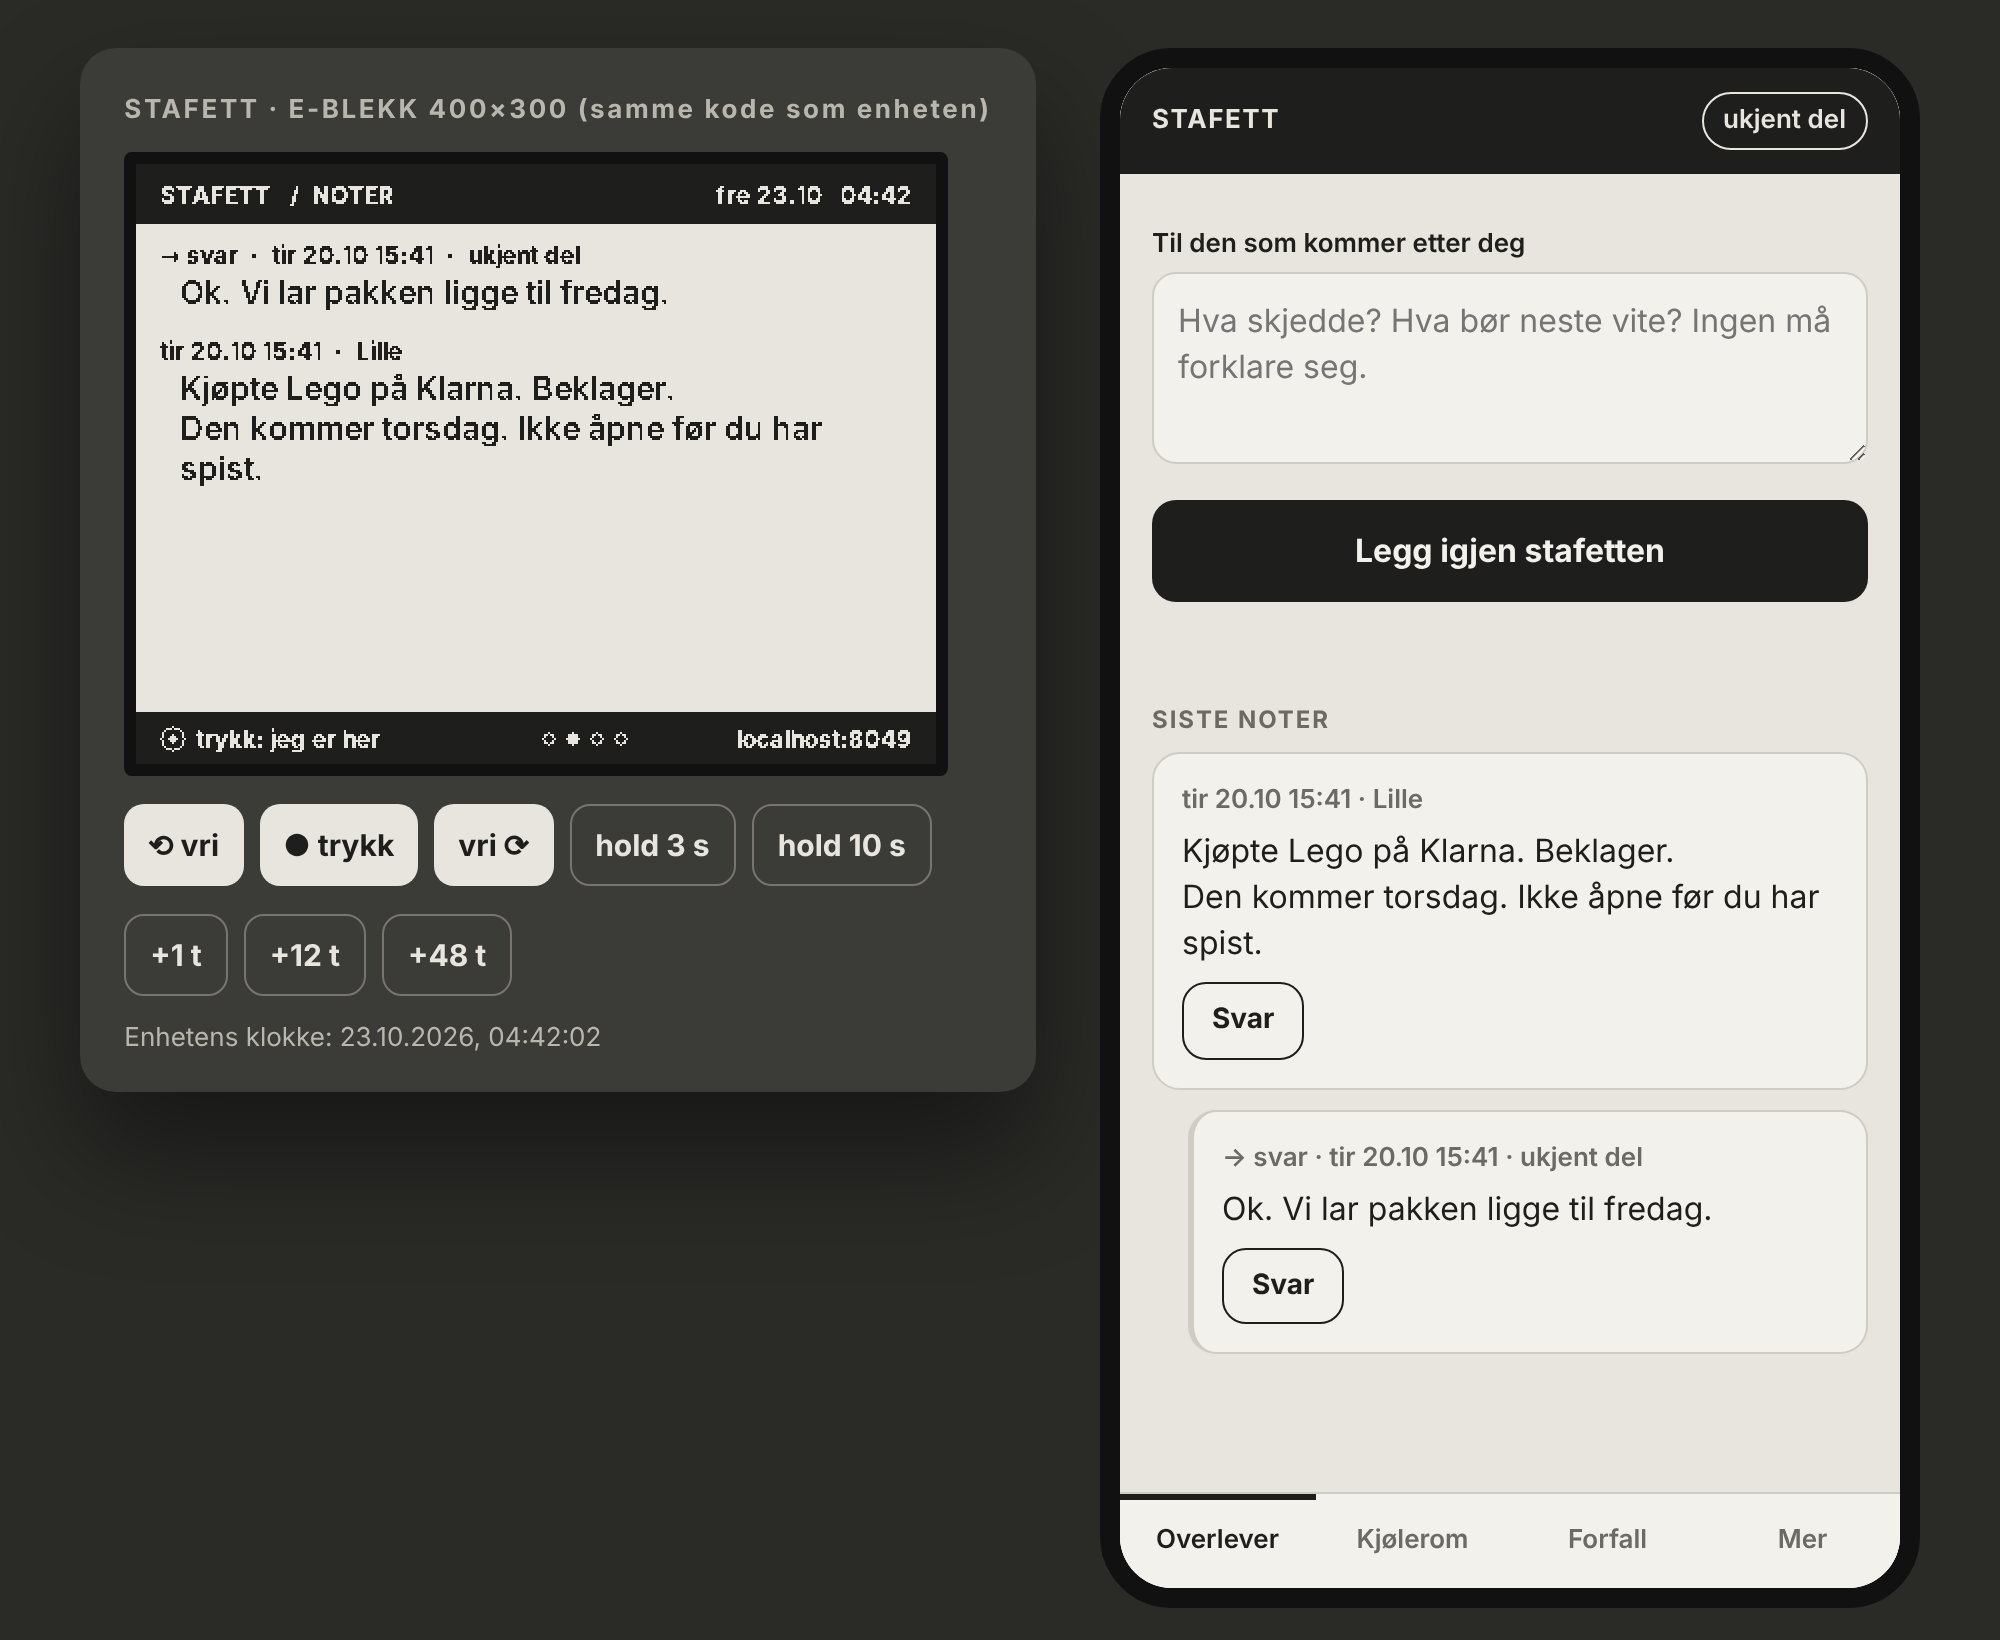
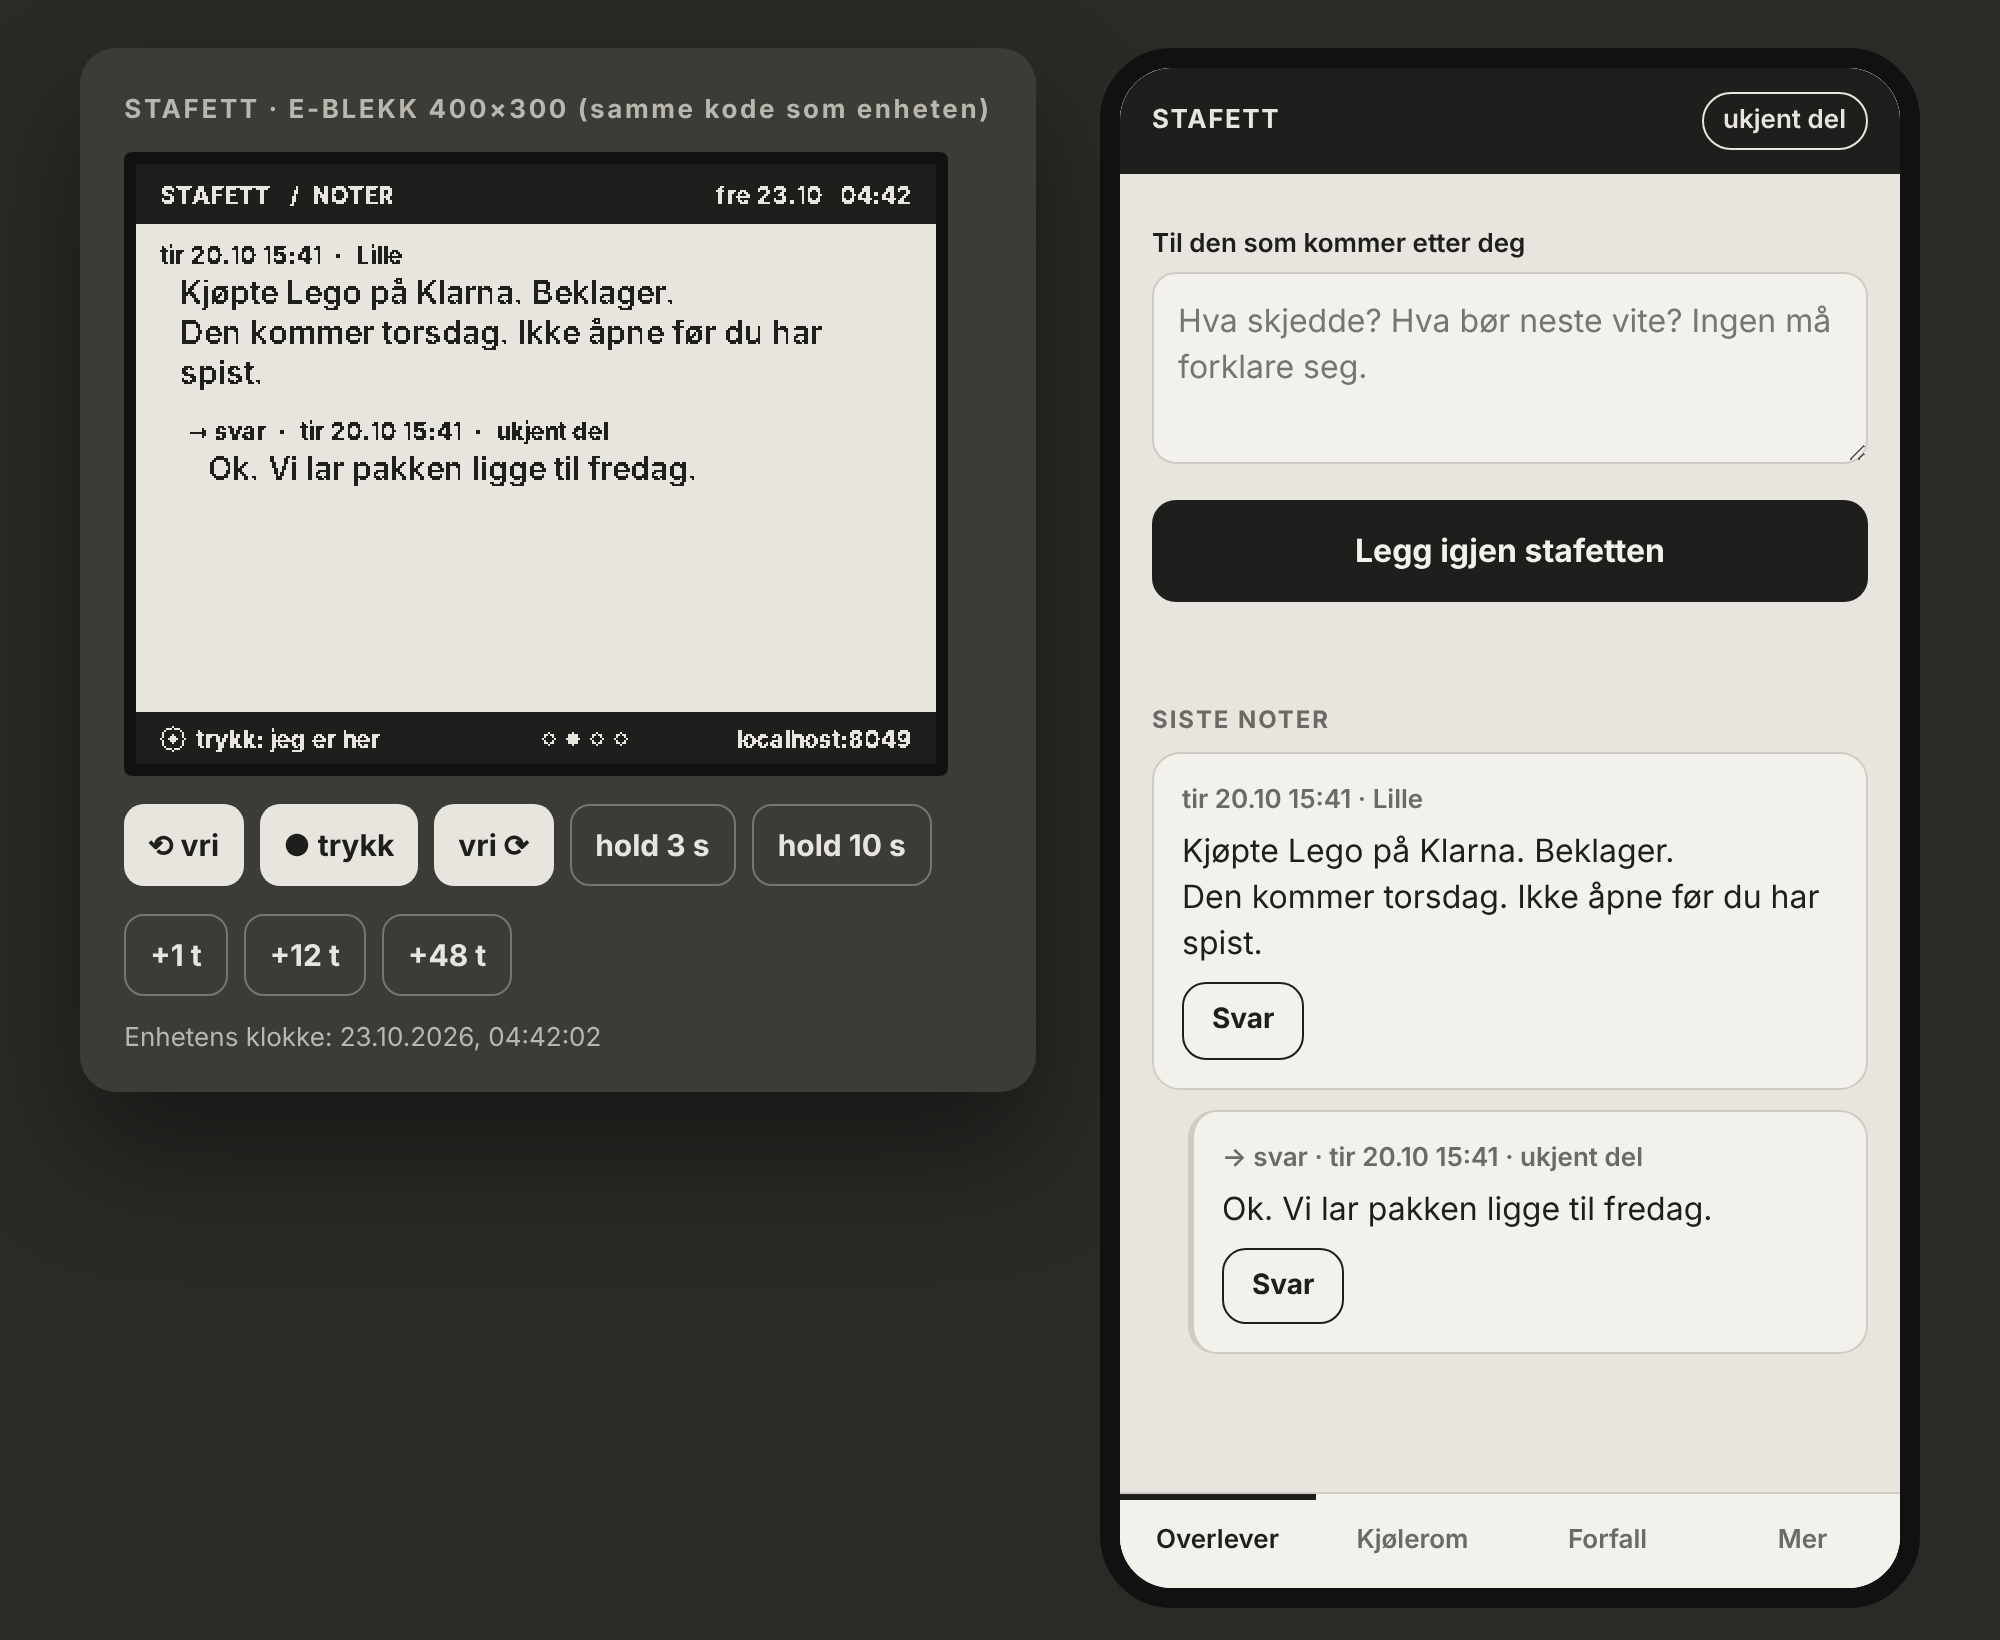
Stafett: marked, README, HULL-testrapport, trådede noter på e-blekk
Claude-Session: https://claude.ai/code/session_01CuQpP28nHgmXjtF4v57PdG

Changed region(s): [[0.093, 0.1555, 0.403, 0.311]]

diff --git a/fabrikken/01-stafett/firmware/core/view.cpp b/fabrikken/01-stafett/firmware/core/view.cpp
@@ -1,5 +1,7 @@
 #include "view.h"
 
+#include <algorithm>
+
 #include "qrcodegen.hpp"
 
 namespace stafett {
@@ -144,16 +146,31 @@ void noter(const State& s, const Ctx& c, Fb& fb) {
   const auto& hs = s.handoffs();
   int y = TOPP + 20;
   if (hs.empty()) fb.text(BODY, M, y + 10, "Ingen noter ennå.");
-  for (size_t i = hs.size(); i-- > 0 && y < BUNN - 30;) {
-    const Handoff& h = hs[i];
+  // Samme tråding som telefonen: nyeste tråd først, svar under i rekkefølge.
+  std::vector<const Handoff*> rekke;
+  std::vector<std::pair<ms_t, const Handoff*>> rot;
+  for (const auto& h : hs) {
+    if (h.svar_til) continue;
+    ms_t sist = h.ts;
+    for (const auto& r : hs) if (r.svar_til == h.id && r.ts > sist) sist = r.ts;
+    rot.emplace_back(sist, &h);
+  }
+  std::stable_sort(rot.begin(), rot.end(), [](const auto& a, const auto& b) { return a.first > b.first; });
+  for (const auto& r : rot) {
+    rekke.push_back(r.second);
+    for (const auto& h : hs) if (h.svar_til == r.second->id) rekke.push_back(&h);
+  }
+  for (size_t i = 0; i < rekke.size() && y < BUNN - 30; ++i) {
+    const Handoff& h = *rekke[i];
     std::string hode = naar(h.ts, c.naa) + "  ·  " + h.del;
     if (h.svar_til) hode = "→ svar  ·  " + hode;
-    fb.text(LAB, M, y, Fb::fit(LAB, hode, R - M));
+    const int inn = h.svar_til ? 14 : 0;
+    fb.text(LAB, M + inn, y, Fb::fit(LAB, hode, R - M - inn));
     y += 20;
     const int plass = (BUNN - 8 - y) / 20;
     const int maks = plass < 3 ? plass : 3;
     if (maks <= 0) break;
-    for (const auto& l : Fb::wrap(BODY, h.tekst, R - M - 10, maks)) { fb.text(BODY, M + 10, y, l); y += 20; }
+    for (const auto& l : Fb::wrap(BODY, h.tekst, R - M - 10 - inn, maks)) { fb.text(BODY, M + 10 + inn, y, l); y += 20; }
     y += 8;
   }
   bunn(fb, c);

diff --git a/fabrikken/01-stafett/marked/MARKED.md b/fabrikken/01-stafett/marked/MARKED.md
@@ -1,0 +1,58 @@
+# STAFETT — marked v0.1
+
+Jeg har gravd. Her er det jeg fant, merket. Ingen tall uten kilde, og ingen kilde uten at jeg sier hvor svak den er.
+
+## 1. Problemet finnes — i tall
+
+| Påstand | Merking | Kilde |
+|---|---|---|
+| ~25 % av voksne nordmenn hadde rentebærende usikret gjeld i 2025 | DOKUMENTERT (forskning) | [OsloMet/SIFO](https://www.oslomet.no/forskning/forskningsnyheter/gjeldsregisteret-hjelper-bankene-men-oker-presset-pa-lantakere) |
+| 171 407 personer (4 %) hadde utleggstrekk i 2025; 69 % av dem hadde rentebærende kreditt | DOKUMENTERT (forskning) | samme |
+| Over 50 000 personer har mer enn en halv million i usikret kreditt | DOKUMENTERT (forskning) | samme |
+| Misligholdt forbruksgjeld 59,6 mrd. kr ved utgangen av 2023, snitt 91 300 kr per inkassosak | DOKUMENTERT (tilsyn) | [Finanstilsynet, forbruksgjeld](https://www.finanstilsynet.no/4990ef/contentassets/aaf5f43e56c8450b97ba4a50190679eb/rapport-om-utviklingen-i-forbruksgjeld-april-2025.pdf) |
+| Total usikret gjeld 177,3 mrd. kr ved utgangen av 2025 | UAVKLART (sekundærkilde, tall spriker) | [kortio.no](https://kortio.no/undersokelser/total-kredittkortgjeld-i-norge/) |
+| Forbrukertilsynet: «Kjøp nå, betal senere» *er* kreditt; påbud med tvangsmulkt 9 mill. kr/uke (2024) | DOKUMENTERT (vedtak) | [Forbrukertilsynet](https://www.forbrukertilsynet.no/wp-content/uploads/2024/07/pabudsvedtak-med-tvangsmulkt-klarna.pdf) |
+| Forbrukerrådet (2025): unge forstår ikke at «ta det på Klarna» er kreditt | DOKUMENTERT som *klage*, ikke vedtak | [Vixio](https://www.vixio.com/insights/pc-norwegian-consumer-council-reports-klarna-breaching-regulatory-requirements) |
+
+Ni millioner kroner. Per uke. Det var tvangsmulkten staten mente måtte til for å få et selskap til å si at kreditt er kreditt. Og jeg skal selge en 1 490-kroners dings til folk med utleggstrekk? Ja. Men ikke på avbetaling. Se `OKONOMI.md`, punkt 3.
+
+## 2. Hvem dette egentlig er for
+
+| Segment | Størrelse | Merking |
+|---|---|---|
+| Mennesker med DID / dissosiative lidelser | 1,1–1,5 % livstidsprevalens oppgis ofte, men er en sammensatt sekundærverdi. Enkeltstudier: 1,1 % (Tyrkia, kvinner, 2007), 0,4 % (Tyrkia, 1999), 1,5 % 12-mnd (New York, 2006) | UAVKLART — spriker, se [Wikipedia-oppsummering](https://en.wikipedia.org/wiki/Dissociative_identity_disorder) og [SAGE](https://sk.sagepub.com/ency/edvol/embed/the-sage-encyclopedia-of-abnormal-and-clinical-psychology/chpt/dissociative-disorders-epidemiology) |
+| Bredere: alle som «mister tid» — ADHD, dissosiasjon ved PTSD, depresjon, søvnløshet | ikke tallfestet her | HYPOTESE |
+| Bredest: alle som kjøper impulsivt på kreditt og vil ha en pause-knapp | jf. 25 % med rentebærende usikret gjeld | HYPOTESE om andel som ønsker et fysisk verktøy |
+
+**Kjernebrukeren** (for prototypen): én person, ett system, ett skrivebord. Som deg.
+**Første marked**: Norge, norsk språk, direkte salg. Ikke Amazon. Ikke Klarna.
+
+Om behandlingsrammen, uten å love noe: ISSTD-kursmateriale lister *skriftlig* kommunikasjon som en teknikk for indre kommunikasjon. Et ISSTD-kurs kobler det å vite «hvem sine tanker er hvem» til impulskontroll og sikkerhet ([ISSTD kursside](https://cfas.isst-d.org/node/1959), [Steele/Boon/van der Hart-utdrag](https://cfas.isst-d.org/sites/default/files/course/2024-09/ISSTD%20-%20L2.2%20Accel%2C%20Class%2013.docx)). DOKUMENTERT som kursmateriale. **Ikke** en retningslinje, og **ikke** bevis for at Stafett virker. Stafett påstår ingen helseeffekt.
+
+## 3. Konkurrenter og naboer
+
+| Produkt | Hva | Pris | Hvorfor ikke det |
+|---|---|---|---|
+| **Simply Plural** | app for plurale systemer: medlemmer, fronting, chat, avstemning | gratis / engangskjøp $2–7 ([AlternativeTo](https://alternativeto.net/software/simply-plural/about)) | lever i telefonen — i lomma til den delen som har den. Sky-synk. |
+| **Plural Star** | ende-til-ende-kryptert, «Observatory Mode» som journal ([Buy Me a Coffee](https://buymeacoffee.com/pluralstar/the-current-state-plural-star)) | donasjon | samme: telefon, ingen fysisk tilstedeværelse |
+| **PluralKit** | Discord-bot | gratis | sosialt verktøy, ikke overlevering |
+| **TRMNL** | e-blekk-ramme 7,5", ESP32, åpen fastvare | $139 ([Liliputing](https://liliputing.com/trmnl-is-a-139-wifi-enabled-e-ink-display-with-open-source-firmware-you-can-also-make-one-from-a-jailbroken-kindle/)) | dashbord for sky-tjenester; ingen inndata, ingen lokal logikk |
+| **Budsjett-apper** (Spiir, bank-apper) | kategoriserer kjøp *etterpå* | gratis | ser kjøpet etter at det har skjedd. Antar én bruker. |
+| **Ønskeliste/«vent 30 dager»-regler** | folkevett | gratis | finnes ikke som *ting* i rommet |
+
+**Hullet:** Ingen av dem er en fysisk gjenstand som står der når du kommer tilbake. Ingen av dem antar at den som kommer tilbake, er en annen enn den som gikk.
+
+## 4. Posisjonering
+
+> *Stafett er ikke en budsjett-app. Det er en notatbok med skjerm for et hode med flere sjåfører.*
+
+- **Pris:** 1 490 kr ferdig / 690 kr bygg-selv-sett / programvaren gratis (i Pusterom).
+- **Kanal:** egen nettside + 3D-print-miljøer (Printables) for byggesettet. Organisasjoner som jobber med gjeldsrådgivning og traumer, som *samarbeidspartnere*, ikke som salgskanal.
+- **Løfte:** lokal, ingen konto, ingen sky. Ingen helsepåstander.
+
+## 5. Det jeg ikke vet (og må finne ut før én eneste enhet selges)
+
+1. **Virker det?** Én bruker, fire uker, prototypen på pulten. Mål: antall noter, antall ting i kjølerommet, hvor mange droppet. UAVKLART til det er gjort.
+2. **Vil folk betale for en fysisk ting når telefonen gjør det samme?** HYPOTESE: ja, fordi telefonen følger den delen som har den. Kan være feil.
+3. **Er det trygt?** Kan en del bruke noter mot en annen? Designvalg demper det (ingen sletting, ingen straff), men det må testes med en behandler i rommet. UAVKLART.
+4. **CE/RED-kostnad** er anslått, ikke tilbudt. Be tre lab-er om pris (en norsk, en tysk, en kinesisk).

diff --git a/fabrikken/01-stafett/HULL.md b/fabrikken/01-stafett/HULL.md
@@ -1,0 +1,53 @@
+# HULL — Stafett v0.1
+
+Testet 20.10.2026, 15:04–16:00 UTC, i en container uten maskinvare. Her er hva som ble bevist, hva som ble funnet, og hva som ikke er bevist.
+
+## Bevist (kjørt, grønt)
+
+| Test | Resultat | Kommando |
+|---|---|---|
+| Enhetstester, kjerne (tid, sommertid, JSON, tekstrens, kjølerom, forfall, fravær, logg, kompaktering, API, hjul, fuzzing 30 000 runder) | **156 / 156** med AddressSanitizer + UBSan | `make test` |
+| Ende-til-ende: telefon-UI i Chromium mot ekte kjerne | **37 / 37** | `make e2e` |
+| ESP32-C3-firmware kompilerer | 1 507 kB (47 % av 3 MB app), 61 kB RAM | `make esp32` |
+| CAD: tre deler vanntette (trimesh) | skall 101,6 g, bunn 39,7 g, hjul 15,2 g PETG | `cd cad && python3 render.py` |
+| Fremmed-test: ren klon → simulator kjører | **48 s** (inkl. kompilering av 156 tester) | se README |
+
+## Feil funnet og drept underveis
+
+Hver av disse ville ha nådd en ekte bruker.
+
+| # | Feil | Funnet av | Fiks |
+|---|---|---|---|
+| 1 | Fravær-terskel 6 t → *hver natt* ble vist som «BORTE» | første skjermrender | 12 t. En vanlig natt er ikke tapt tid. |
+| 2 | Kjølerom-siden: butikknavn kolliderte med «KLAR»-teksten | skjermrender | bredde regnes fra høyre tekst |
+| 3 | Tidslinja rant inn i forklaringen | skjermrender | radhøyde 30 → 27 |
+| 4 | Nedtelling viste «47 t» rett etter innlegging | e2e | runder opp: `igjen()` |
+| 5 | **API-et brukte telefonens klokke i svaret selv om enheten nektet å stille klokka** → feil nedtelling, feil «borte» | e2e | `sett_klokke` returnerer `bool`; svaret bruker enhetens tid. Enhetstest lagt til. |
+| 6 | Parring fungerte ikke hvis siden allerede var åpen (bare hash endres) | e2e | `hashchange`-lytter |
+| 7 | Devserver leste `Content-Length` med store/små bokstaver som teller (Node sender det med små) | e2e | hoder leses uten hensyn til store/små bokstaver |
+| 8 | Svar sto over noten de svarte på | simulator-skjermbilde | tråder både på telefon og e-blekk |
+| 9 | Strømbudsjettet antok dyp søvn, men hjulet (GPIO9) kan ikke vekke C3 fra dyp søvn | firmware-gjennomgang | lett søvn, ny beregning: ~45 døgn på batteri |
+| 10 | Wi-Fi alltid på ville tømt batteriet på ~13 t | strømbudsjett | på batteri: Wi-Fi bare 10 min etter trykk |
+| 11 | App for stor for standardpartisjon (114 %) | `arduino-cli` | `huge_app`-partisjon, ~896 kB LittleFS til loggen |
+| 12 | CAD: FPC-kabelen stakk gjennom frontleppa | render | brettet bakover |
+
+## Ikke bevist (ærlig)
+
+- **Ingenting er kjørt på ekte maskinvare.** SSD1683-driveren følger databladets sekvenser, men er ikke sett på et panel. Første gang den kjøres, er en test.
+- **Strømtallene er beregnet fra antatte strømmer**, ikke målt.
+- **Kvadraturdekodingen** (EC11) er standard tabellmetode. Ikke testet med ekte prell.
+- **Toleransene i kabinettet** (panel-lomme +0,3 mm, EC11-hull 7,4 mm) er ikke printet.
+- **Om det hjelper.** Det kan bare én ting vise: fire uker på en ekte pult.
+
+## 60 sekunder for en fremmed
+
+En fremmed kan: klone → `make test` → `make dev` → åpne simulatoren → skrive en note → se den på e-blekkskjermen → legge noe i kjølerommet → trykke **+48 t** → droppe det → se «Latt være: 1 ting · 1 899 kr».
+Det er hele produktet. Det tar under ett minutt.
+
+## Neste (ikke denne runden)
+
+1. Bestill 2× panel + 2× ESP32-C3-SuperMini-kort, kjør `epd.h` på ekte.
+2. Print kabinettet, mål toleranser, juster `stafett.scad`.
+3. KiCad-skjema og PCB fra pinnetabellen i `stafett.ino`.
+4. Hjemmenett-modus (STA) i tillegg til eget tilgangspunkt.
+5. Fire uker på pulten. Tell noter, kjølerom, drop.

diff --git a/fabrikken/01-stafett/README.md b/fabrikken/01-stafett/README.md
@@ -1,0 +1,53 @@
+# STAFETT
+
+*Den som tar over, får vite hva som skjedde.*
+
+![Stafett](cad/render/cad-1-helt.png)
+
+En e-blekk-kile på pulten for hoder med flere sjåfører. Viser siste overlevering, hva som ligger i 48-timers kjølerom, neste forfall, og hvor lenge du var borte. Ett hjul. Ingen sky. Ingen konto.
+
+| | |
+|---|---|
+| Idé og drap | [`LAB.md`](LAB.md) |
+| Spesifikasjon | [`SPEC.md`](SPEC.md) |
+| Økonomi | [`okonomi/OKONOMI.md`](okonomi/OKONOMI.md) |
+| Marked | [`marked/MARKED.md`](marked/MARKED.md) |
+| Testrapport | [`HULL.md`](HULL.md) |
+
+## Prøv det på 60 sekunder (uten maskinvare)
+
+Krever `g++`, `make`, `python3` med Pillow.
+
+```sh
+cd firmware
+make test        # 156 enhetstester med ASan/UBSan
+make dev         # bygger vertsserveren
+./build/devserver --nokkel demo --web web
+```
+
+Åpne **http://localhost:8048/sim#k=demo**. Til venstre: e-blekkskjermen, tegnet av den samme C++-koden som kjører på enheten. Til høyre: telefonen. Skriv en note, legg noe i kjølerommet, trykk **+48 t**, og se hva som skjer.
+
+Ende-til-ende-test (Playwright, krever Chromium): `make e2e`.
+
+## Bygg den
+
+| Steg | Kommando / fil |
+|---|---|
+| Kabinett | `cad/out/skall.stl`, `bunn.stl`, `hjul.stl` — PETG, 0,2 mm, 3 vegger. Kilde: `cad/stafett.scad` |
+| Renders | `cd cad && python3 render.py` (krever OpenSCAD + xvfb) |
+| Tegning | `cd cad && python3 tegning.py` → `cad/render/tegning.png` |
+| Firmware | `make -C firmware esp32` (krever arduino-cli + esp32-kjerne 3.3) → `firmware/build/esp32/stafett.ino.merged.bin` |
+| Flash | `esptool.py --chip esp32c3 write_flash 0x0 firmware/build/esp32/stafett.ino.merged.bin` |
+| Skjermer | `cd firmware && make render && python3 tools/demo.py` → `render/skjerm-*.png` |
+| Økonomi | `python3 okonomi/modell.py` |
+
+## Skjermene
+
+| | |
+|---|---|
+| ![](render/skjerm-1-oversikt.png) | ![](render/skjerm-3-kjolerom.png) |
+| ![](render/skjerm-4-tidslinje.png) | ![](render/skjerm-5-velkommen.png) |
+
+## Arkitektur i én setning
+
+All logikk ligger i `firmware/core/` (ren C++17, testet på vertsmaskin). ESP32-sketchen, vertsserveren og render-verktøyet er tynne skall rundt den samme kjernen. Det som er testet, er det som kjører.
